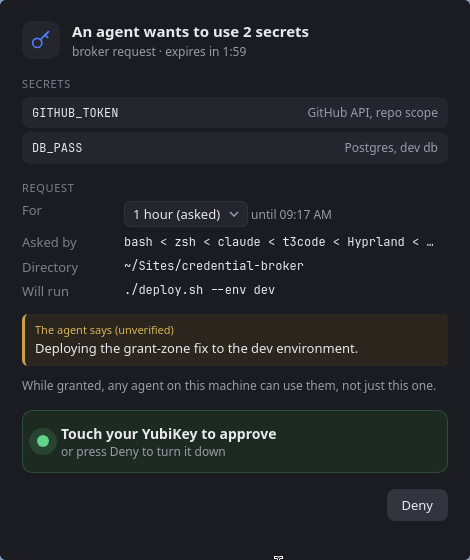
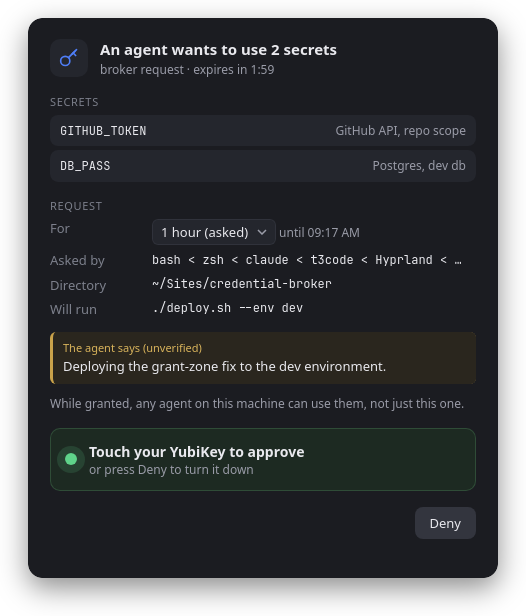
docs: lead the README with the request window
The window, then the two agent commands that open it, so the repo says
what it does and what it asks of the human at a glance. The screenshot
loses a stray cursor and gains rounded corners and a shadow.

Changed region(s): [[0.0, 0.0, 1.0, 1.0]]

diff --git a/README.md b/README.md
@@ -2,13 +2,21 @@
 
 # Credential Broker
 
-A local secret store for a machine where AI agents do most of the typing. Agents run commands **with** your secrets and never see them. When one needs a secret, a window pops up on your desktop saying who's asking and why, you touch your YubiKey, and the kernel forgets the grant when it expires.
+A local secret store for a machine where AI agents do most of the typing. Agents run commands **with** your secrets and never see them. When one needs a secret, this pops up on your desktop:
+
+<p align="center">
+  <img src="./artwork/request-window.png" alt="broker's request window: an agent asks for GITHUB_TOKEN and DB_PASS for an hour to run ./deploy.sh, with the process chain that asked, its directory, and its stated reason, waiting for a YubiKey touch" width="460">
+</p>
+
+You touch your YubiKey, the command runs, and the kernel forgets the grant an hour later. That's the whole human side. The agent's side is two commands:
 
 ```sh
-broker ls --json                                  # agent: what secrets exist (names, never values)
-broker exec --request GITHUB_TOKEN -- gh repo list  # agent: run a command with one, asking you if needed
-broker grant GITHUB_TOKEN --for 2h                # you, from a terminal instead of the window
+broker ls --json        # what secrets exist (names and descriptions, never values)
+broker exec --request --reason "Deploying the grant-zone fix to the dev environment." \
+  GITHUB_TOKEN DB_PASS -- ./deploy.sh --env dev
 ```
+
+Prefer a terminal? `broker grant GITHUB_TOKEN DB_PASS --for 1h` does the same thing without the window.
 
 There's no server, no daemon, and no account. Secrets are plain [age](https://age-encryption.org) files on disk, grants live in the Linux kernel keyring with a timeout, and every read lands in an audit log with the process tree that asked for it.
 
@@ -107,9 +115,7 @@ $ broker exec GITHUB_TOKEN DB_PASS -- ./deploy.sh
 {"error":"no_grant","names":["GITHUB_TOKEN","DB_PASS"],"ask_human":"broker grant GITHUB_TOKEN DB_PASS --for 1h"}
 ```
 
-That works when you have a terminal next to the agent's. In something like T3 you never see the agent's terminal, so `exec --request` (or `broker request` on its own) asks you in a **request window** instead:
-
-![The request window](./artwork/request-window.png)
+That works when you have a terminal next to the agent's. In something like T3 you never see the agent's terminal, so `exec --request` (or `broker request` on its own) asks you in the **request window** instead, the one at the [top of this page](#credential-broker).
 
 Everything in the window except the yellow box is something broker worked out itself: the secrets and their descriptions, the process chain and directory (read from `/proc`, not from the agent), and the command it will run. The yellow box is the agent's `--reason`, labeled as its word. You can pick a shorter duration before approving. What approving takes depends on the [unlock zone](#unlock-strength): touch the key on a hardware vault, type the passphrase into the window on a passphrase vault, or click Approve on a plain one. Deny, Escape, or closing the window all say no, and the agent gets `denied` and is told not to ask again. Nobody answering within 2 minutes gets it `request_timeout`.
 
